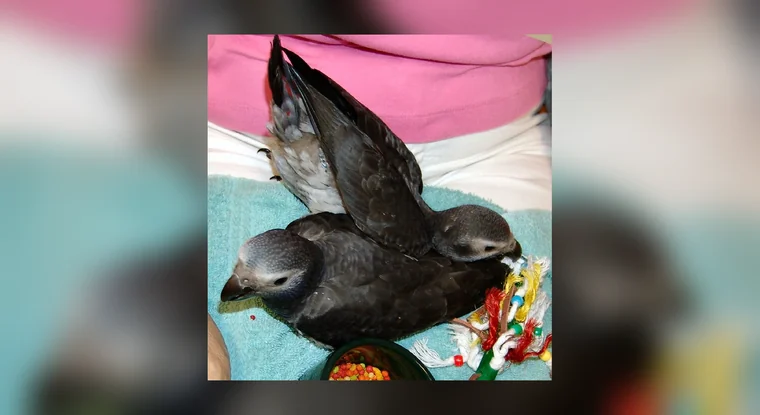
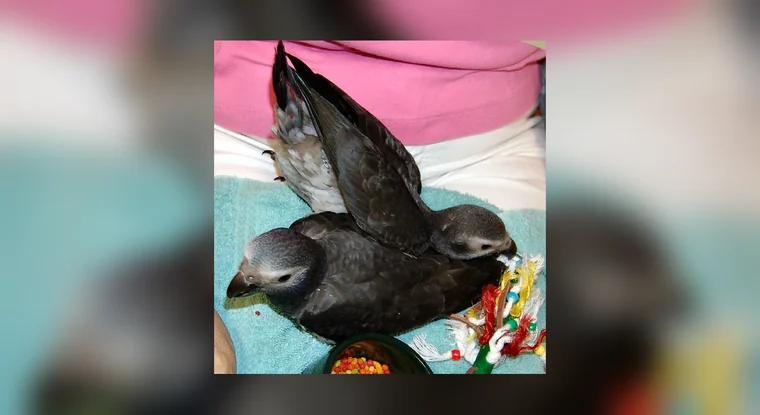
feat(images): distinct taller mobile frame for bird-portrait OG photos (.og-tall full-bleed 4:5, dual-safe blur-fill) + lock it as the standing default for all for-sale/comparison builds
- reframe_og.py: --mobcrop 4:5 makes subject dual-safe (survives desktop 16:9 AND mobile 4:5)
- 3 Timneh portraits regenerated dual-safe; .og-tall mobile full-bleed 4:5 (no h-scroll, verified)
- IMAGE-DESIGNS.md §7 + for-sale skill: LOCKED default OG pipeline for future builds

Changed region(s): [[0.2724, 0.0578, 0.7263, 0.9253], [0.6355, 0.2892, 0.6658, 0.3181], [0.5145, 0.6072, 0.5447, 0.6361]]

diff --git a/scripts/reframe_og.py b/scripts/reframe_og.py
@@ -23,11 +23,11 @@ from PIL import Image, ImageOps, ImageFilter, ImageEnhance
 
 def load(p): return Image.open(p).convert("RGB")
 
-def blurfill(im, W, H, blur):
+def blurfill(im, W, H, blur, fgw, fgh):
     bg = ImageOps.fit(im, (W, H), Image.LANCZOS)               # cover
     bg = bg.filter(ImageFilter.GaussianBlur(blur))
     bg = ImageEnhance.Brightness(bg).enhance(0.92)             # settle it behind the subject
-    fg = im.copy(); fg.thumbnail((W, H), Image.LANCZOS)        # contain, full height
+    fg = im.copy(); fg.thumbnail((fgw, fgh), Image.LANCZOS)    # contain within the subject-safe box
     canvas = bg.copy()
     canvas.paste(fg, ((W - fg.width) // 2, (H - fg.height) // 2))
     return canvas
@@ -72,9 +72,16 @@ def main():
     ap.add_argument("--blur", type=int, default=30)
     ap.add_argument("--sib", default=""); ap.add_argument("--sibw", type=int, default=760); ap.add_argument("--sibh", type=int, default=415)
     ap.add_argument("--maxkb", type=int, default=95)
+    # dual-safe: constrain the sharp subject so a later mobile 4:5 cover crop (central 4/5*H wide)
+    # never clips it. Default full box; pass --mobcrop 4:5 to auto-set, or --fgmaxw explicitly.
+    ap.add_argument("--mobcrop", default=""); ap.add_argument("--fgmaxw", type=int, default=0)
     a = ap.parse_args()
+    fgw, fgh = a.w, a.h
+    if a.fgmaxw: fgw = a.fgmaxw
+    elif a.mobcrop:
+        rw, rh = (int(x) for x in a.mobcrop.split(":")); fgw = int(a.h * rw / rh)
     im = load(a.src)
-    fn = {"blurfill": lambda: blurfill(im, a.w, a.h, a.blur),
+    fn = {"blurfill": lambda: blurfill(im, a.w, a.h, a.blur, fgw, fgh),
           "contain":  lambda: contain(im, a.w, a.h),
           "topcover": lambda: topcover(im, a.w, a.h)}[a.style]
     out = fn()

diff --git a/IMAGE-DESIGNS.md b/IMAGE-DESIGNS.md
@@ -137,10 +137,26 @@ just replace the file.
 | **H** | Duo Strip | (CSS: 2× `.h-im`) | Elad + Evie sibling / pair shots, two portraits side-by-side | ✅ full |
 
 **Mobile counterparts** (full-bleed, taller aspect): **mA** 4:5 top-cover · **mB** 4:5 contain ·
-**mC** 4:5 blur-fill *(matches B)* · **mG** stacked two-up · **mH** 3:4 top-cover. A blur-fill (B)
-file already prevents head cutoffs on mobile under the current 5:4 crop; for a *distinct taller*
-mobile frame, set the page's mobile `.og-photo{aspect-ratio:4/5}` **only once every OG photo on that
-page is a blur-fill/contain file** (otherwise the portrait crop re-cuts un-reframed photos).
+**mC** 4:5 blur-fill *(matches B)* · **mG** stacked two-up · **mH** 3:4 top-cover.
+
+### STANDING DEFAULT — every for-sale / comparison page build MUST use this (locked 2026-07-22)
+This is now the **default OG-photo pipeline for all future page builds** — apply it without asking:
+
+1. **Single-bird / pair portrait OG photos** → bake with `reframe_og.py --style blurfill --mobcrop 4:5`
+   (the `--mobcrop 4:5` makes the sharp subject **dual-safe**: fits within BOTH the desktop 16:9 box
+   AND a mobile 4:5 crop, so it is never clipped at either width), then tag the `<img>`
+   `class="sec-img og-photo og-tall"`. CSS: desktop = the uniform 16:9 `.sec-img` box (unchanged);
+   mobile (`≤900px`) = **full-bleed edge-to-edge 4:5** —
+   `.sec-img.og-tall{width:100vw;max-width:100vw;margin-left:calc(50% - 50vw);aspect-ratio:4/5;border-radius:0}`
+   (page root needs `overflow-x:clip` — already on `.for-sale`/`.timneh` wrappers). This gives the
+   **distinct taller mobile design** the breeder wants while desktop keeps the uniform rectangle.
+2. **Wide / scene / documentation / infographic images** → keep the standard `.sec-img`(`.inf-img`)
+   16:9 box; on mobile they stay `.og-photo` 5:4 (do NOT force them into 4:5 — a landscape subject in
+   a tall frame reads as a small photo floating in blur).
+3. **NEVER** cover-crop a portrait master into 16:9 with a focal-point `fit(centering=...)` — that is
+   the head-cutoff bug this whole section exists to kill.
+
+Reference implementation: `/timneh-african-grey-for-sale/` (on-hand-playful, siblings, bath-play).
 
 **Defaults:** single-bird OG photo → **B**; wide/infographic-like → **A**; pair/sibling → **H** (or B
 if it's one photo of both birds); punchy fill → **E**. Applied to the Timneh page 2026-07-22:

diff --git a/.claude/skills/cag-for-sale-page-builder/SKILL.md b/.claude/skills/cag-for-sale-page-builder/SKILL.md
@@ -89,7 +89,8 @@ Link-First anchors (sentence START, never mid/end; branded ACTION anchors on CTA
 - **Dial TOC (desktop) + jump-rail (mobile)** — same mechanics as comparison pages, NEW for-sale style (distinct accent/motif; scroll-margin offset for the mobile rail; `scroll-behavior: auto`).
 - **TOC + KeyTakeaway** — 3 breeder-approved NEW designs each (picked from 5), completely different from cag-toc-v1/v2/v3 + cag-key-takeaway-v2.
 - **Orange stacking tables** — the 5-parrot table set (Congo/Timneh/Macaw/Cockatoo/Amazon) added to the required orange designs; stack on mobile like the comparison cluster; species markers use `/emoji/cag-congo.png` + `/emoji/cag-timneh.png` imgs — **NEVER 🦜**.
-- **In-body images** — uniform `.sec-img.inf-img` 760px 16:9 box for EVERY OG photo AND infographic (per-image `object-position`, <100 KB WebP + `-760.webp` sibling + srcset). **Every H2, H3, and key H4 gets an image** (OG or infographic/AI). Rule 50b alt rotation — no two images share an alt.
+- **In-body images** — uniform `.sec-img.inf-img` 760px 16:9 box for EVERY OG photo AND infographic (<100 KB WebP + `-760.webp` sibling + srcset). **Every H2, H3, and key H4 gets an image** (OG or infographic/AI). Rule 50b alt rotation — no two images share an alt.
+  - **OG-photo framing (LOCKED default — do NOT cover-crop a portrait with a focal point; that cuts heads):** bake single-bird/pair portrait photos with `scripts/reframe_og.py --style blurfill --mobcrop 4:5` from the ORIGINAL master (in `assets/1WORKING-ON/FOR-SALE-PAGES/.../<BIRD>/`), tag `<img class="sec-img og-photo og-tall">`, and ship the mobile full-bleed 4:5 rule (`.sec-img.og-tall{width:100vw;margin-left:calc(50% - 50vw);aspect-ratio:4/5;border-radius:0}`). Desktop stays the uniform 16:9 box; mobile gets the distinct taller full-bleed frame; the subject is dual-safe so it is never clipped at either width. Wide/scene/infographic images stay standard 16:9 / mobile 5:4. Full spec + named Styles A/B/C/E/H: **`IMAGE-DESIGNS.md §7`**.
 - **Seam divider** — footer-logo divider, a for-sale-specific variant style, 4–8 per page, decorative alt="" + lazy + CLS dims.
 - **Sidebar** — NO page-level sidebar (breeder-ratified recommendation); Avail-B sticky-filter used only as a section-level component inside available-birds sections; sticky mobile CTA bar covers persistent-CTA needs.
 - **Stale-fact reconciliation on ALL kit intake (binding):** kit copy says Appendix II → **always CITES Appendix I**; fake pairs (Bella/Oliver/Rosie/Max) → real birds/pairs only (ask breeder per-bird parentage); fake ratings/counts (4.97 · 184) → real 4.9 · 52; "3-year guarantee" → the real guarantee per Ledger; fake phone → real NAP from credentials.md; 🦜 → cag-congo/cag-timneh imgs; kit palette → DESIGN.md tokens + AA clay variants.

diff --git a/skills/cag-for-sale-page-builder.md b/skills/cag-for-sale-page-builder.md
@@ -89,7 +89,8 @@ Link-First anchors (sentence START, never mid/end; branded ACTION anchors on CTA
 - **Dial TOC (desktop) + jump-rail (mobile)** — same mechanics as comparison pages, NEW for-sale style (distinct accent/motif; scroll-margin offset for the mobile rail; `scroll-behavior: auto`).
 - **TOC + KeyTakeaway** — 3 breeder-approved NEW designs each (picked from 5), completely different from cag-toc-v1/v2/v3 + cag-key-takeaway-v2.
 - **Orange stacking tables** — the 5-parrot table set (Congo/Timneh/Macaw/Cockatoo/Amazon) added to the required orange designs; stack on mobile like the comparison cluster; species markers use `/emoji/cag-congo.png` + `/emoji/cag-timneh.png` imgs — **NEVER 🦜**.
-- **In-body images** — uniform `.sec-img.inf-img` 760px 16:9 box for EVERY OG photo AND infographic (per-image `object-position`, <100 KB WebP + `-760.webp` sibling + srcset). **Every H2, H3, and key H4 gets an image** (OG or infographic/AI). Rule 50b alt rotation — no two images share an alt.
+- **In-body images** — uniform `.sec-img.inf-img` 760px 16:9 box for EVERY OG photo AND infographic (<100 KB WebP + `-760.webp` sibling + srcset). **Every H2, H3, and key H4 gets an image** (OG or infographic/AI). Rule 50b alt rotation — no two images share an alt.
+  - **OG-photo framing (LOCKED default — do NOT cover-crop a portrait with a focal point; that cuts heads):** bake single-bird/pair portrait photos with `scripts/reframe_og.py --style blurfill --mobcrop 4:5` from the ORIGINAL master (in `assets/1WORKING-ON/FOR-SALE-PAGES/.../<BIRD>/`), tag `<img class="sec-img og-photo og-tall">`, and ship the mobile full-bleed 4:5 rule (`.sec-img.og-tall{width:100vw;margin-left:calc(50% - 50vw);aspect-ratio:4/5;border-radius:0}`). Desktop stays the uniform 16:9 box; mobile gets the distinct taller full-bleed frame; the subject is dual-safe so it is never clipped at either width. Wide/scene/infographic images stay standard 16:9 / mobile 5:4. Full spec + named Styles A/B/C/E/H: **`IMAGE-DESIGNS.md §7`**.
 - **Seam divider** — footer-logo divider, a for-sale-specific variant style, 4–8 per page, decorative alt="" + lazy + CLS dims.
 - **Sidebar** — NO page-level sidebar (breeder-ratified recommendation); Avail-B sticky-filter used only as a section-level component inside available-birds sections; sticky mobile CTA bar covers persistent-CTA needs.
 - **Stale-fact reconciliation on ALL kit intake (binding):** kit copy says Appendix II → **always CITES Appendix I**; fake pairs (Bella/Oliver/Rosie/Max) → real birds/pairs only (ask breeder per-bird parentage); fake ratings/counts (4.97 · 184) → real 4.9 · 52; "3-year guarantee" → the real guarantee per Ledger; fake phone → real NAP from credentials.md; 🦜 → cag-congo/cag-timneh imgs; kit palette → DESIGN.md tokens + AA clay variants.